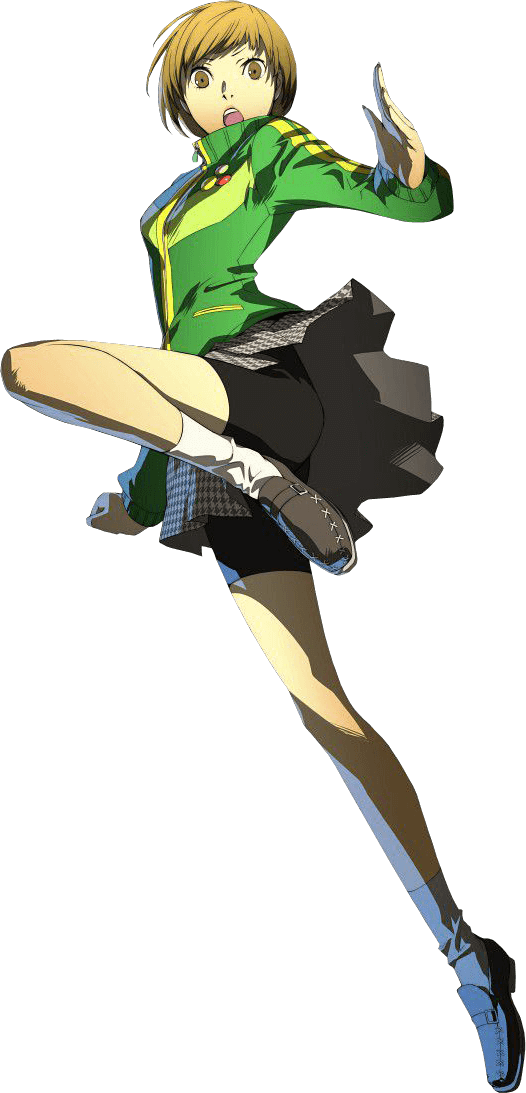
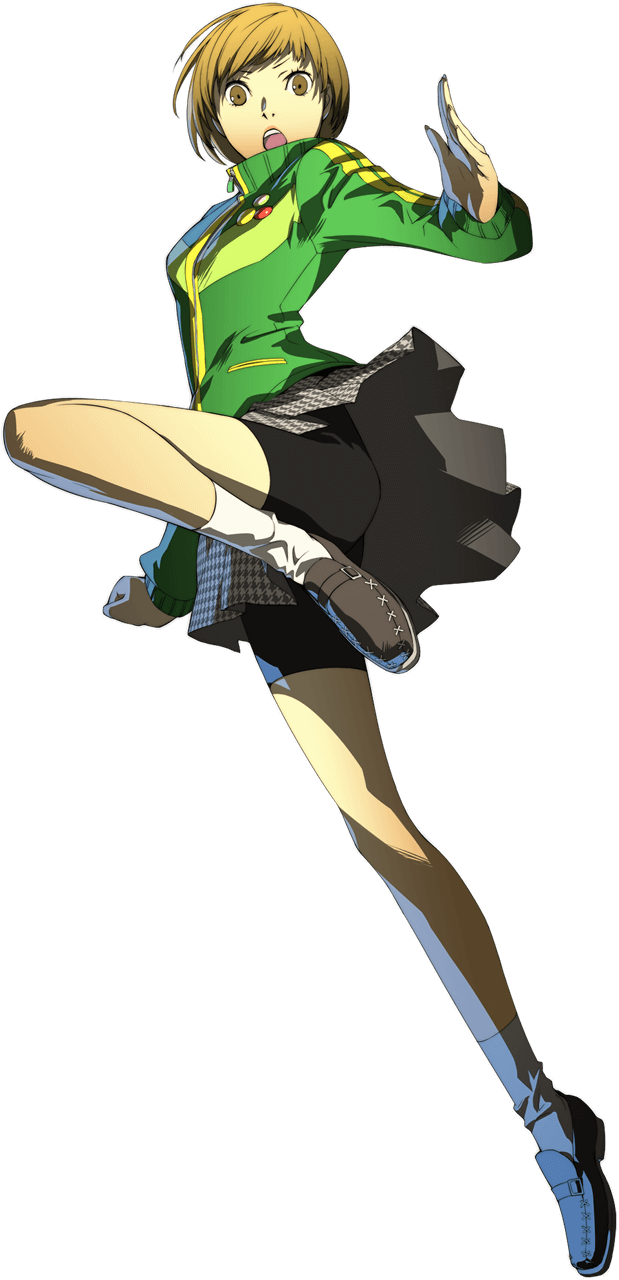
add persona 4 and 5 renders, p1 backgrounds
Added characters renders for Persona 4 and 5. Also adds in some
backgrounds for Persona 1.

diff --git a/resources/images-list.min.js b/resources/images-list.min.js
@@ -1,1 +1,1 @@
-PS_Cover.Images.host="resources/images/",PS_Cover.Images.list={batman:{thumb:"batman-logo.png",images:["batman-00.png","batman-01.png","batman-02.png","batman-03.png","batman-04.png","batman-05.png","batman-06.png","batman-08.png","batman-09.png","batman-11.png","batman-12.png","catwoman-00.png","catwoman-01.png","catwoman-02.png","catwoman-03.png","harley_quinn-00.png","harley_quinn-01.png","harley_quinn-02.png","joker-00.png","joker-01.png","joker-02.png","joker-03.png","batmanw-00.jpg","batmanw-01.jpg","batmanw-02.jpg","batmanw-03.jpg","batmanw-04.jpg","batmanw-05.jpg","batmanw-06.jpg","batmanw-07.jpg","batmanw-08.jpg","batmanw-09.jpg","batmanw-10.jpg","batmanw-11.jpg","batmanw-12.jpg","batmanw-13.jpg","batmanw-14.jpg","batmanw-15.jpg","batmanw-16.jpg","batmanw-17.jpg","batmanw-18.jpg","batmanw-19.jpg","batmanw-20.jpg","batmanw-21.jpg","batmanw-22.jpg","batmanw-23.jpg","batmanw-24.jpg","batmanw-25.jpg","batmanw-26.jpg","batmanw-27.jpg","batmanw-29.jpg","batmanw-30.jpg"]},battlefield:{thumb:"bf-logo.png",images:["bf-00.png","bf-01.png","bf-02.png","bf-03.png","bf-05.png","bf-06.png","bf-07.png","bf-08.png","bf-09.png","bf-10.png","bf-11.png","bf-12.png","bfw-00.jpg","bfw-01.jpg","bfw-02.jpg","bfw-03.jpg","bfw-04.png","bfw-05.png","bfw-06.jpg","bfw-07.jpg","bfw-08.jpg","bfw-09.jpg","bfw-10.jpg","bfw-11.jpg","bfw-12.jpg","bfw-13.jpg","bfw-14.jpg","bfw-15.jpg","bfw-16.jpg","bfw-17.jpg","bfw-18.jpg"]},bloodborne:{thumb:"bb_logo.png",images:["bb-00.png","bb-01.png","bb-02.png","bb-03.png","bb-04.png","bb-05.png","bb-06.png","bb-07.png","bb-08.png","bb-09.png","bb-10.png","bb-11.png","bb-12.png","bb-13.png","bb-14.png","bb-15.png","bb-16.png","bb-17.png","bb-18.png","bb-19.png","bbw-00.jpg","bbw-01.jpg","bbw-02.jpg","bbw-03.jpg","bbw-04.jpg","bbw-05.jpg","bbw-06.jpg","bbw-07.jpg","bbw-08.jpg","bbw-09.jpg","bbw-10.jpg","bbw-12.jpg","bbw-13.jpg","bbw-14.jpg","bbw-15.jpg","bbw-16.jpg","bbw-17.jpg","bbw-18.jpg","bbw-19.jpg","bbw-20.jpg","bbw-22.jpg","bbw-23.jpg","bbw-24.jpg","bbw-25.jpg","bbw-26.jpg","bbw-28.jpg","bbw-29.jpg","bbw-31.jpg"]},"final-fantasy":{thumb:"ff-logo.png",images:["ff1-00.png","ff1-01.png","firrion-00.png","firrion-01.png","firrion-02.png","cloudofdarkness-00.png","kain-00.png","cecil-00.png","cecil-01.png","cecil-02.png","rosa-00.png","rydia-00.png","rydia-01.png","ff4-00.png","bartz-00.png","bartz-01.png","gilgamesh-ff5-00.png","gilgamesh-ff5-01.png","exdeath-00.png","terra-00.png","terra-01.png","terra-02.png","terra-03.png","terra-04.png","terra-05.png","kefka-00.png","kefka-01.png","kefka-02.png","ff6-00.png","aerith-00.png","aerith-01.png","aerith-02.png","aerith-03.png","barret-00.png","barret-01.png","caitsith-00.png","caitsith-01.png","cid-00.png","cid-01.png","cloud-00.png","cloud-01.png","cloud-02.png","cloud-03.png","cloud-04.png","cloud-05.png","cloud-06.png","genesis-00.png","red-00.png","sephiroth-00.png","sephiroth-01.png","sephiroth-02.png","sephiroth-03.png","sephiroth-04.png","tifa-00.png","tifa-01.png","tifa-02.png","tifa-03.png","tifa-04.png","tifa-05.png","vincent-00.png","vincent-01.png","vincent-02.png","vincent-03.png","vincent-04.png","yuffie-00.png","yuffie-01.png","yuffie-02.png","yuffie-03.png","zack-00.png","zack-01.png","zack-02.png","zack-03.png","zack-04.png","zack-05.png","ff7-00.png","ff7-01.png","ff7-02.png","seifer-00.png","squall-00.png","squall-01.png","squall-02.png","squall-03.png","squall-04.png","squall-05.png","squall-06.png","squall-07.png","squall-08.png","ff8-00.png","ff8-01.png","ff8-02.png","garnet-00.png","kuja-00.png","kuja-01.png","kuja-02.png","vivi-00.png","zidane-00.png","zidane-01.png","zidane-02.png","zidane-03.png","zidane-04.png","zidane-05.png","zidane-06.png","ff9-00.png","auron-00.png","auron-01.png","auron-02.png","auron-03.png","jecht-00.png","jecht-01.png","kimahri-00.png","lulu-00.png","lulu-01.png","lulu-02.png","lulu-03.png","paine-00.png","paine-01.png","paine-02.png","paine-03.png","paine-04.png","rikku-00.png","rikku-01.png","rikku-02.png","rikku-03.png","rikku-04.png","seymour-00.png","tidus-00.png","tidus-01.png","tidus-02.png","tidus-03.png","tidus-04.png","tidus-05.png","wakka-00.png","wakka-01.png","yuna-00.png","yuna-01.png","yuna-02.png","yuna-03.png","yuna-04.png","yuna-05.png","yuna-06.png","yuna-07.png","yuna-08.png","ff11-00.png","ff11-01.png","ff11-02.png","ff11-03.png","ff11-04.png","ff11-05.png","ff11-06.png","ashe-00.png","ashe-01.png","ashe-02.png","balthier-00.png","basch-00.png","fran-00.png","fran-01.png","fran-02.png","gabranth-00.png","larsa-00.png","penelo-00.png","penelo-01.png","rasler-00.png","vaan-00.png","vaan-01.png","vaan-02.png","vayne-00.png","ff12-00.png","ff12-01.png","ff12-02.png","caius-00.png","fang-00.png","fang-01.png","hope-00.png","hope-01.png","hope-02.png","hope-03.png","hope-04.png","hope-05.png","jihl-00.png","lightning-00.png","lightning-01.png","lightning-02.png","lightning-03.png","lightning-04.png","lightning-05.png","lightning-06.png","lightning-07.png","lightning-08.png","lightning-09.png","lightning-10.png","lightning-11.png","lightning-12.png","lightning-13.png","lightning-14.png","lightning-15.png","lightning-16.png","lightning-17.png","lumina-00.png","noel-00.png","noel-01.png","noel-02.png","sazh-00.png","serah-00.png","serah-01.png","serah-02.png","serah-03.png","serah-04.png","serah-05.png","serah-06.png","serah-07.png","serah-08.png","serah-09.png","snow-00.png","snow-01.png","snow-02.png","snow-03.png","snow-04.png","vanille-00.png","vanille-01.png","vanille-02.png","vanille-03.png","vanille-04.png","ff13-00.png","ff13-01.png","ff14-00.png","ff14-01.png","ff14-02.png","ff14-03.png","ff14-04.png","ff14-05.png","ff14-06.png","ff14-07.png","ff14-08.png","ff14-09.png","ardyn-00.png","ardyn-01.png","noctis-01.png","noctis-02.png","noctis-03.png","noctis-04.png","noctis-05.png","noctis-06.png","ff15-00.png","ff15-01.png","ace-00.png","ace-01.png","caetuna-00.png","cater-00.png","cater-01.png","cid-t0-00.png","cinque-00.png","deuce-00.png","eight-00.png","gilgamesh-t0-00.png","jack-00.png","king-00.png","machina-00.png","nimbus-00.png","nine-00.png","queen-00.png","rem-00.png","seven-00.png","seven-01.png","shiva-00.png","sice-00.png","sice-01.png","trey-00.png","trey-01.png","type0-00.png","ff3w-00.jpg","ff4w-00.jpg","ff5w-00.jpg","ff5w-01.png","ff5w-02.jpg","ff6w-00.jpg","ff6w-01.jpg","ff6w-02.jpg","ff6w-03.jpg","ff7w-00.jpg","ff7w-01.jpg","ff7w-02.jpg","ff7w-03.jpg","ff7w-04.jpg","ff7w-05.jpg","ff7w-06.jpg","ff8w-00.jpg","ff8w-01.jpg","ff8w-02.jpg","ff8w-03.jpg","ff8w-04.jpg","ff8w-05.jpg","ff8w-06.jpg","ff8w-07.jpg","ff8w-08.jpg","ff8w-09.jpg","ff8w-10.jpg","ff8w-11.jpg","ff9w-00.jpg","ff9w-01.jpg","ff9w-02.jpg","ff9w-03.jpg","ff9w-04.jpg","ff9w-05.jpg","ff9w-06.jpg","ff9w-07.jpg","ff9w-08.jpg","ff9w-09.jpg","ff10w-00.jpg","ff10w-01.jpg","ff10w-02.jpg","ff10w-03.jpg","ff10w-04.jpg","ff10w-05.jpg","ff10w-06.jpg","ff10w-07.jpg","ff10w-08.jpg","ff10w-09.jpg","ff10w-10.jpg","ff10w-11.jpg","ff10w-12.jpg","ff10w-13.jpg","ff10w-14.jpg","ff10w-15.jpg","ff11w-00.jpg","ff11w-01.jpg","ff11w-02.jpg","ff12w-00.jpg","ff12w-01.jpg","ff12w-02.jpg","ff12w-03.jpg","ff12w-04.jpg","ff12w-05.jpg","ff12w-06.jpg","ff12w-07.jpg","ff12w-08.jpg","ff12w-09.jpg","ff12w-10.jpg","ff12w-11.jpg","ff13w-00.jpg","ff13w-01.jpg","ff13w-02.jpg","ff13w-03.jpg","ff13w-04.jpg","ff13w-05.jpg","ff13w-06.jpg","ff13w-07.jpg","ff13w-08.jpg","ff13w-09.jpg","ff13w-10.jpg","ff13w-11.jpg","ff13w-12.jpg","ff14w-00.jpg","ff14w-01.jpg","ff14w-02.jpg","ff14w-03.jpg","ff14w-04.jpg","ff14w-05.jpg","ff14w-06.jpg","ff14w-07.jpg","ff14w-08.jpg","ff14w-09.jpg","ff14w-10.jpg","ff14w-11.jpg","ff14w-12.jpg","ff15w-00.jpg","ff15w-01.jpg","ff15w-02.jpg","ff15w-03.jpg","ff15w-04.jpg","ff15w-05.jpg","ff15w-06.jpg","ff15w-07.jpg","ff15w-08.jpg","ff15w-09.jpg","ff15w-10.jpg","ff15w-11.jpg","ff15w-12.jpg","type0w-00.jpg","type0w-01.jpg","type0w-02.jpg","type0w-03.jpg","type0w-04.jpg","type0w-05.jpg","type0w-06.jpg","type0w-07.png","type0w-08.jpg","type0w-09.jpg","type0w-10.jpg","type0w-11.jpg","type0w-12.jpg","type0w-13.jpg","ffdw-00.jpg","ffdw-01.jpg","ffdw-02.jpg","ffdw-03.jpg","fftw-00.jpg","fftw-01.jpg"]},"god-of-war":{thumb:"gow-logo.png",images:["kratos-00.png","kratos-01.png","kratos-02.png","kratos-03.png","kratos-04.png","kratos-05.png","kratos-06.png","kratos-07.png","kratos-08.png","kratos-09.png","kratos-10.png","kratos-11.png","gow-00.jpg","gow-01.jpg","gow-02.jpg","gow-03.jpg","gow-04.jpg","gow-05.jpg","gow-06.jpg","gow-07.jpg","gow-08.jpg","gow-09.jpg","gow-10.jpg","gow-11.jpg","gow-12.jpg","gow-13.jpg"]},"gran-turismo":{thumb:"gt-logo.png",images:["gt-00.png","gt-01.png","gt-02.png","gt-03.png","gt-04.png","gt-05.png","gt-06.png","gt-07.png","gt-08.png","gtw-00.jpg","gtw-01.jpg","gtw-02.jpg","gtw-03.jpg","gtw-04.jpg","gtw-05.jpg","gtw-06.jpg","gtw-07.jpg","gtw-08.jpg","gtw-09.jpg","gtw-10.jpg","gtw-11.jpg","gtw-12.jpg","gtw-13.jpg","gtw-14.jpg","gtw-15.jpg","gtw-16.jpg","gtw-17.jpg","gtw-18.jpg","gtw-19.jpg"]},"gravity-rush":{thumb:"gr-logo.png",images:["dusty-00.png","kat-00.png","kat-01.png","kat-02.png","kat-03.png","kat-04.png","kat-05.png","kat-06.png","kat-07.png","kat-08.png","kat-09.png","kat-10.png","kat-11.png","kat-12.png","raven-00.png","raven-01.png","raven-03.png","syd-00.png","syd-01.png","yunica-00.png","yunica-01.png","gr-00.png","grw-00.jpg","grw-01.jpg","grw-02.jpg","grw-03.jpg","grw-06.jpg","grw-07.jpg","grw-09.jpg","grw-11.jpg","grw-12.jpg","grw-14.jpg","grw-15.jpg","grw-16.jpg","grw-17.jpg","grw-18.jpg","grw-19.jpg","grw-20.jpg"]},infamous:{thumb:"if-logo.png",images:["cole-00.png","cole-01.png","cole-02.png","cole-03.png","cole-04.png","delsin-00.png","delsin-01.png","delsin-02.png","fetch-00.png","fetch-01.png","nix-00.png","reaper-00.png","if-00.jpg","if-01.jpg","if-02.jpg","if-03.jpg","if-04.jpg","if-05.jpg","if-06.jpg","if-07.jpg","if-08.jpg","if-09.jpg","if2-00.jpg","if3-00.jpg","if3-01.jpg","if3-02.jpg","if3-03.jpg","if3-04.jpg"]},killzone:{thumb:"kz-logo.png",images:["kz-00.png","kz-01.png","kz-02.png","kz-03.png","kz-04.png","kz-05.png","kz-06.png","kz-07.png","kz-08.png","kz-09.png","kz-10.png","kz-11.png","kz-12.png","kz-13.png","kz-14.png","kz-15.png","kz-16.png","kz-17.png","kz-18.png","kz-19.png","kz-20.png","kzw-00.jpg","kzw-01.jpg","kzw-02.jpg","kzw-04.jpg","kzw-05.jpg","kzw-06.jpg","kzw-07.jpg","kzw-08.jpg","kzw-09.jpg","kzw-10.jpg","kzw-11.jpg","kzw-12.jpg","kzw-13.jpg","kzw-14.jpg","kzw-15.jpg","kzw-16.jpg","kzw-17.jpg","kzw-18.jpg","kzw-19.jpg","kzw-20.jpg"]},"little-big-planet":{thumb:"lbp-logo.png",images:["lbp-00.png","lbp-01.png","lbp-02.png","lbp-03.png","lbp-04.png","lbp-05.png","lbp-06.png","lbp-07.png","lbp-08.png","lbp-09.png","lbp-10.png","lbp-11.png","lbp-12.png","lbp-13.png","lbp-14.png","lbp-15.png","lbp-16.png","lbp-17.png","lbp-18.png","lbpw-00.jpg","lbpw-01.jpg","lbpw-02.jpg","lbpw-03.jpg","lbpw-04.jpg","lbpw-05.jpg","lbpw-06.jpg","lbpw-07.jpg","lbpw-08.jpg","lbpw-09.jpg","lbpw-10.jpg"]},persona:{thumb:"persona-logo.png",images:["eriko-00.png","eriko-01.png","hidehiko-00.png","hidehiko-01.png","maki-00.png","maki-01.png","masao-00.png","masao-01.png","nanjo-00.png","nanjo-01.png","nanjo-02.png","naoya-00.png","naoya-01.png","reiji-00.png","reiji-01.png","trish-00.png","yuka-00.png","yukino-00.png","yukino-01.png","yukino-02.png","eikichi-00.png","eikichi-01.png","eikichi-02.png","eikichi-03.png","joker-00.png","jun-00.png","jun-01.png","jun-02.png","jun-03.png","lisa-00.png","lisa-01.png","lisa-02.png","lisa-03.png","lisa-04.png","maya-00.png","maya-01.png","maya-02.png","maya-03.png","maya-04.png","tatsuya-00.png","tatsuya-01.png","tatsuya-02.png","tatsuya-03.png","tatsuya-04.png","tatsuya-05.png","apollo-00.png","maia-00.png","aigis-00.png","aigis-01.png","aigis-02.png","aigis-03.png","aigis-04.png","aigis-05.png","aigis-06.png","aigis-07.png","aigis-08.png","aigis-09.png","aigis-10.png","aigis-11.png","aigis-12.png","aigis-13.png","aigis-14.png","akihiko-00.png","akihiko-01.png","akihiko-02.png","akihiko-03.png","akihiko-04.png","akihiko-05.png","akihiko-06.png","akihiko-07.png","chidori-00.png","chidori-01.png","chidori-02.png","elizabeth-00.png","elizabeth-01.png","elizabeth-02.png","elizabeth-03.png","elizabeth-04.png","elizabeth-05.png","femc-00.png","femc-02.png","femc-03.png","femc-04.png","fuuka-00.png","fuuka-01.png","fuuka-02.png","junpei-00.png","junpei-01.png","junpei-02.png","junpei-03.png","ken-00.png","ken-01.png","ken-02.png","ken-03.png","koromaru-00.png","koromaru-01.png","koromaru-02.png","metis-00.png","minato-00.png","minato-01.png","minato-02.png","minato-03.png","minato-04.png","minato-05.png","minato-06.png","minato-07.png","minato-08.png","minato-09.png","mitsuru-00.png","mitsuru-01.png","mitsuru-02.png","mitsuru-03.png","mitsuru-04.png","mitsuru-05.png","mitsuru-06.png","ryoji-00.png","ryoji-01.png","shinjiro-00.png","shinjiro-01.png","theo-00.png","theo-01.png","yukari-00.png","yukari-01.png","yukari-02.png","yukari-04.png","orpheus-00.png","thantos-00.png","misc-02.png","misc-03.png","misc-04.png","misc-05.png","chie-00.png","izanagi-00.png","izanagi-01.png","izanagi-02.png","yu-00.png","yu-01.png","yu-02.png","yu-03.png","misc-00.png","misc-01.png","p2w-00.jpg","p2w-01.jpg","p2w-02.jpg","p2w-03.jpg","p2w-04.jpg","p2w-05.jpg","p2w-06.jpg","p2w-07.jpg","p2w-08.jpg","p2w-09.jpg","p3w-00.jpg","p3w-01.jpg","p3w-02.jpg","p3w-03.jpg","p3w-04.jpg","p3w-05.png","p3w-06.jpg","p3w-07.jpg","p3w-08.png","p3w-09.jpg","p3w-10.jpg","p3w-11.jpg","p3w-12.jpg","p3w-13.png","p3w-14.jpg","p3w-15.jpg","p3w-16.jpg","p3w-17.jpg","p3w-18.jpg","p4w-00.jpg","p4w-01.jpg","p4w-03.jpg","p4w-04.jpg","p4w-05.jpg","p4w-06.jpg","p4w-07.jpg","p4w-08.jpg","p4w-09.jpg","p4w-10.jpg","p4w-11.jpg","p4w-12.jpg","p4w-13.jpg","p4w-15.jpg","p4w-16.jpg","p5w-00.jpg","p5w-01.png","p5w-02.jpg","p5w-03.jpg","p5w-04.jpg","p5w-05.jpg","p5w-06.jpg","p5w-07.jpg","p5w-08.jpg","p5w-09.jpg","p5w-10.jpg","p5w-11.jpg","p5w-12.jpg","p5w-13.jpg","p5w-14.jpg","p5w-15.jpg","p5w-16.jpg","p5w-17.jpg","p5w-18.jpg","p5w-19.jpg","p5w-20.jpg","p5w-21.jpg","p5w-22.jpg","p5w-23.jpg","p5w-24.jpg","p5w-25.jpg","p5w-26.jpg","p5w-27.jpg","p5w-28.jpg"]},"ratchet-and-clank":{thumb:"rac-logo.png",images:["ace-00.png","al-00.png","alister-01.png","clank-00.png","clank-01.png","clank-02.png","clank-03.png","courtney-00.png","courtney-01.png","merc-00.png","nefarious-00.png","nefarious-01.png","nefarious-02.png","qwark-00.png","qwark-01.png","qwark-02.png","qwark-03.png","qwark-04.png","ratchet-00.png","ratchet-02.png","ratchet-03.png","ratchet-04.png","ratchet-05.png","ratchet-06.png","ratchet-07.png","ratchet-08.png","skid-00.png","racw-00.jpg","racw-01.jpg","racw-02.jpg","racw-03.jpg","racw-04.jpg","racw-05.jpg","racw-06.jpg","racw-07.jpg","racw-08.jpg","racw-09.jpg","racw-10.jpg","racw-11.jpg","racw-12.jpg","racw-13.jpg","racw-14.jpg","racw-15.jpg","racw-16.jpg","racw-17.jpg","racw-18.jpg","racw-19.jpg"]},"street-fighter":{thumb:"sf-logo.png",images:["chun_li-00.png","chun_li-01.png","chun_li-02.png","chun_li-03.png","cody-00.png","juri-00.png","kazuya-00.png","ken-00.png","ken-01.png","ken-02.png","ken-03.png","ken-04.png","q-00.png","ryu-00.png","ryu-01.png","ryu-02.png","ryu-03.png","ryu-04.png","ryu-05.png","yang-00.png","yun-00.png","sfw-00.jpg","sfw-01.jpg","sfw-02.jpg","sfw-03.jpg","sfw-04.jpg","sfw-05.jpg","sfw-06.jpg","sfw-07.jpg","sfw-08.jpg","sfw-09.jpg","sfw-10.jpg","sfw-11.jpg","sfw-12.jpg","sfw-13.jpg","sfw-14.jpg"]},uncharted:{thumb:"uc-logo.png",images:["chloe-00.png","drake-00.png","drake-01.png","drake-02.png","eddy-00.png","elena-00.png","elena-01.png","flynn-00.png","sully-00.png","uc-00.jpg","uc2-00.jpg","uc2-01.jpg","uc2-02.jpg","uc3-00.jpg","uc3-01.jpg","uc3-02.jpg","uc4-00.jpg","uc4-01.jpg","uc4-02.jpg","uc4-03.jpg","uc4-04.jpg"]}};
+PS_Cover.Images.host="resources/images/",PS_Cover.Images.list={batman:{thumb:"batman-logo.png",images:["batman-00.png","batman-01.png","batman-02.png","batman-03.png","batman-04.png","batman-05.png","batman-06.png","batman-08.png","batman-09.png","batman-11.png","batman-12.png","catwoman-00.png","catwoman-01.png","catwoman-02.png","catwoman-03.png","harley_quinn-00.png","harley_quinn-01.png","harley_quinn-02.png","joker-00.png","joker-01.png","joker-02.png","joker-03.png","batmanw-00.jpg","batmanw-01.jpg","batmanw-02.jpg","batmanw-03.jpg","batmanw-04.jpg","batmanw-05.jpg","batmanw-06.jpg","batmanw-07.jpg","batmanw-08.jpg","batmanw-09.jpg","batmanw-10.jpg","batmanw-11.jpg","batmanw-12.jpg","batmanw-13.jpg","batmanw-14.jpg","batmanw-15.jpg","batmanw-16.jpg","batmanw-17.jpg","batmanw-18.jpg","batmanw-19.jpg","batmanw-20.jpg","batmanw-21.jpg","batmanw-22.jpg","batmanw-23.jpg","batmanw-24.jpg","batmanw-25.jpg","batmanw-26.jpg","batmanw-27.jpg","batmanw-29.jpg","batmanw-30.jpg"]},battlefield:{thumb:"bf-logo.png",images:["bf-00.png","bf-01.png","bf-02.png","bf-03.png","bf-05.png","bf-06.png","bf-07.png","bf-08.png","bf-09.png","bf-10.png","bf-11.png","bf-12.png","bfw-00.jpg","bfw-01.jpg","bfw-02.jpg","bfw-03.jpg","bfw-04.png","bfw-05.png","bfw-06.jpg","bfw-07.jpg","bfw-08.jpg","bfw-09.jpg","bfw-10.jpg","bfw-11.jpg","bfw-12.jpg","bfw-13.jpg","bfw-14.jpg","bfw-15.jpg","bfw-16.jpg","bfw-17.jpg","bfw-18.jpg"]},bloodborne:{thumb:"bb_logo.png",images:["bb-00.png","bb-01.png","bb-02.png","bb-03.png","bb-04.png","bb-05.png","bb-06.png","bb-07.png","bb-08.png","bb-09.png","bb-10.png","bb-11.png","bb-12.png","bb-13.png","bb-14.png","bb-15.png","bb-16.png","bb-17.png","bb-18.png","bb-19.png","bbw-00.jpg","bbw-01.jpg","bbw-02.jpg","bbw-03.jpg","bbw-04.jpg","bbw-05.jpg","bbw-06.jpg","bbw-07.jpg","bbw-08.jpg","bbw-09.jpg","bbw-10.jpg","bbw-12.jpg","bbw-13.jpg","bbw-14.jpg","bbw-15.jpg","bbw-16.jpg","bbw-17.jpg","bbw-18.jpg","bbw-19.jpg","bbw-20.jpg","bbw-22.jpg","bbw-23.jpg","bbw-24.jpg","bbw-25.jpg","bbw-26.jpg","bbw-28.jpg","bbw-29.jpg","bbw-31.jpg"]},"final-fantasy":{thumb:"ff-logo.png",images:["ff1-00.png","ff1-01.png","firrion-00.png","firrion-01.png","firrion-02.png","cloudofdarkness-00.png","kain-00.png","cecil-00.png","cecil-01.png","cecil-02.png","rosa-00.png","rydia-00.png","rydia-01.png","ff4-00.png","bartz-00.png","bartz-01.png","gilgamesh-ff5-00.png","gilgamesh-ff5-01.png","exdeath-00.png","terra-00.png","terra-01.png","terra-02.png","terra-03.png","terra-04.png","terra-05.png","kefka-00.png","kefka-01.png","kefka-02.png","ff6-00.png","aerith-00.png","aerith-01.png","aerith-02.png","aerith-03.png","barret-00.png","barret-01.png","caitsith-00.png","caitsith-01.png","cid-00.png","cid-01.png","cloud-00.png","cloud-01.png","cloud-02.png","cloud-03.png","cloud-04.png","cloud-05.png","cloud-06.png","genesis-00.png","red-00.png","sephiroth-00.png","sephiroth-01.png","sephiroth-02.png","sephiroth-03.png","sephiroth-04.png","tifa-00.png","tifa-01.png","tifa-02.png","tifa-03.png","tifa-04.png","tifa-05.png","vincent-00.png","vincent-01.png","vincent-02.png","vincent-03.png","vincent-04.png","yuffie-00.png","yuffie-01.png","yuffie-02.png","yuffie-03.png","zack-00.png","zack-01.png","zack-02.png","zack-03.png","zack-04.png","zack-05.png","ff7-00.png","ff7-01.png","ff7-02.png","seifer-00.png","squall-00.png","squall-01.png","squall-02.png","squall-03.png","squall-04.png","squall-05.png","squall-06.png","squall-07.png","squall-08.png","ff8-00.png","ff8-01.png","ff8-02.png","garnet-00.png","kuja-00.png","kuja-01.png","kuja-02.png","vivi-00.png","zidane-00.png","zidane-01.png","zidane-02.png","zidane-03.png","zidane-04.png","zidane-05.png","zidane-06.png","ff9-00.png","auron-00.png","auron-01.png","auron-02.png","auron-03.png","jecht-00.png","jecht-01.png","kimahri-00.png","lulu-00.png","lulu-01.png","lulu-02.png","lulu-03.png","paine-00.png","paine-01.png","paine-02.png","paine-03.png","paine-04.png","rikku-00.png","rikku-01.png","rikku-02.png","rikku-03.png","rikku-04.png","seymour-00.png","tidus-00.png","tidus-01.png","tidus-02.png","tidus-03.png","tidus-04.png","tidus-05.png","wakka-00.png","wakka-01.png","yuna-00.png","yuna-01.png","yuna-02.png","yuna-03.png","yuna-04.png","yuna-05.png","yuna-06.png","yuna-07.png","yuna-08.png","ff11-00.png","ff11-01.png","ff11-02.png","ff11-03.png","ff11-04.png","ff11-05.png","ff11-06.png","ashe-00.png","ashe-01.png","ashe-02.png","balthier-00.png","basch-00.png","fran-00.png","fran-01.png","fran-02.png","gabranth-00.png","larsa-00.png","penelo-00.png","penelo-01.png","rasler-00.png","vaan-00.png","vaan-01.png","vaan-02.png","vayne-00.png","ff12-00.png","ff12-01.png","ff12-02.png","caius-00.png","fang-00.png","fang-01.png","hope-00.png","hope-01.png","hope-02.png","hope-03.png","hope-04.png","hope-05.png","jihl-00.png","lightning-00.png","lightning-01.png","lightning-02.png","lightning-03.png","lightning-04.png","lightning-05.png","lightning-06.png","lightning-07.png","lightning-08.png","lightning-09.png","lightning-10.png","lightning-11.png","lightning-12.png","lightning-13.png","lightning-14.png","lightning-15.png","lightning-16.png","lightning-17.png","lumina-00.png","noel-00.png","noel-01.png","noel-02.png","sazh-00.png","serah-00.png","serah-01.png","serah-02.png","serah-03.png","serah-04.png","serah-05.png","serah-06.png","serah-07.png","serah-08.png","serah-09.png","snow-00.png","snow-01.png","snow-02.png","snow-03.png","snow-04.png","vanille-00.png","vanille-01.png","vanille-02.png","vanille-03.png","vanille-04.png","ff13-00.png","ff13-01.png","ff14-00.png","ff14-01.png","ff14-02.png","ff14-03.png","ff14-04.png","ff14-05.png","ff14-06.png","ff14-07.png","ff14-08.png","ff14-09.png","ardyn-00.png","ardyn-01.png","noctis-01.png","noctis-02.png","noctis-03.png","noctis-04.png","noctis-05.png","noctis-06.png","ff15-00.png","ff15-01.png","ace-00.png","ace-01.png","caetuna-00.png","cater-00.png","cater-01.png","cid-t0-00.png","cinque-00.png","deuce-00.png","eight-00.png","gilgamesh-t0-00.png","jack-00.png","king-00.png","machina-00.png","nimbus-00.png","nine-00.png","queen-00.png","rem-00.png","seven-00.png","seven-01.png","shiva-00.png","sice-00.png","sice-01.png","trey-00.png","trey-01.png","type0-00.png","ff3w-00.jpg","ff4w-00.jpg","ff5w-00.jpg","ff5w-01.png","ff5w-02.jpg","ff6w-00.jpg","ff6w-01.jpg","ff6w-02.jpg","ff6w-03.jpg","ff7w-00.jpg","ff7w-01.jpg","ff7w-02.jpg","ff7w-03.jpg","ff7w-04.jpg","ff7w-05.jpg","ff7w-06.jpg","ff8w-00.jpg","ff8w-01.jpg","ff8w-02.jpg","ff8w-03.jpg","ff8w-04.jpg","ff8w-05.jpg","ff8w-06.jpg","ff8w-07.jpg","ff8w-08.jpg","ff8w-09.jpg","ff8w-10.jpg","ff8w-11.jpg","ff9w-00.jpg","ff9w-01.jpg","ff9w-02.jpg","ff9w-03.jpg","ff9w-04.jpg","ff9w-05.jpg","ff9w-06.jpg","ff9w-07.jpg","ff9w-08.jpg","ff9w-09.jpg","ff10w-00.jpg","ff10w-01.jpg","ff10w-02.jpg","ff10w-03.jpg","ff10w-04.jpg","ff10w-05.jpg","ff10w-06.jpg","ff10w-07.jpg","ff10w-08.jpg","ff10w-09.jpg","ff10w-10.jpg","ff10w-11.jpg","ff10w-12.jpg","ff10w-13.jpg","ff10w-14.jpg","ff10w-15.jpg","ff11w-00.jpg","ff11w-01.jpg","ff11w-02.jpg","ff12w-00.jpg","ff12w-01.jpg","ff12w-02.jpg","ff12w-03.jpg","ff12w-04.jpg","ff12w-05.jpg","ff12w-06.jpg","ff12w-07.jpg","ff12w-08.jpg","ff12w-09.jpg","ff12w-10.jpg","ff12w-11.jpg","ff13w-00.jpg","ff13w-01.jpg","ff13w-02.jpg","ff13w-03.jpg","ff13w-04.jpg","ff13w-05.jpg","ff13w-06.jpg","ff13w-07.jpg","ff13w-08.jpg","ff13w-09.jpg","ff13w-10.jpg","ff13w-11.jpg","ff13w-12.jpg","ff14w-00.jpg","ff14w-01.jpg","ff14w-02.jpg","ff14w-03.jpg","ff14w-04.jpg","ff14w-05.jpg","ff14w-06.jpg","ff14w-07.jpg","ff14w-08.jpg","ff14w-09.jpg","ff14w-10.jpg","ff14w-11.jpg","ff14w-12.jpg","ff15w-00.jpg","ff15w-01.jpg","ff15w-02.jpg","ff15w-03.jpg","ff15w-04.jpg","ff15w-05.jpg","ff15w-06.jpg","ff15w-07.jpg","ff15w-08.jpg","ff15w-09.jpg","ff15w-10.jpg","ff15w-11.jpg","ff15w-12.jpg","type0w-00.jpg","type0w-01.jpg","type0w-02.jpg","type0w-03.jpg","type0w-04.jpg","type0w-05.jpg","type0w-06.jpg","type0w-07.png","type0w-08.jpg","type0w-09.jpg","type0w-10.jpg","type0w-11.jpg","type0w-12.jpg","type0w-13.jpg","ffdw-00.jpg","ffdw-01.jpg","ffdw-02.jpg","ffdw-03.jpg","fftw-00.jpg","fftw-01.jpg"]},"god-of-war":{thumb:"gow-logo.png",images:["kratos-00.png","kratos-01.png","kratos-02.png","kratos-03.png","kratos-04.png","kratos-05.png","kratos-06.png","kratos-07.png","kratos-08.png","kratos-09.png","kratos-10.png","kratos-11.png","gow-00.jpg","gow-01.jpg","gow-02.jpg","gow-03.jpg","gow-04.jpg","gow-05.jpg","gow-06.jpg","gow-07.jpg","gow-08.jpg","gow-09.jpg","gow-10.jpg","gow-11.jpg","gow-12.jpg","gow-13.jpg"]},"gran-turismo":{thumb:"gt-logo.png",images:["gt-00.png","gt-01.png","gt-02.png","gt-03.png","gt-04.png","gt-05.png","gt-06.png","gt-07.png","gt-08.png","gtw-00.jpg","gtw-01.jpg","gtw-02.jpg","gtw-03.jpg","gtw-04.jpg","gtw-05.jpg","gtw-06.jpg","gtw-07.jpg","gtw-08.jpg","gtw-09.jpg","gtw-10.jpg","gtw-11.jpg","gtw-12.jpg","gtw-13.jpg","gtw-14.jpg","gtw-15.jpg","gtw-16.jpg","gtw-17.jpg","gtw-18.jpg","gtw-19.jpg"]},"gravity-rush":{thumb:"gr-logo.png",images:["dusty-00.png","kat-00.png","kat-01.png","kat-02.png","kat-03.png","kat-04.png","kat-05.png","kat-06.png","kat-07.png","kat-08.png","kat-09.png","kat-10.png","kat-11.png","kat-12.png","raven-00.png","raven-01.png","raven-03.png","syd-00.png","syd-01.png","yunica-00.png","yunica-01.png","gr-00.png","grw-00.jpg","grw-01.jpg","grw-02.jpg","grw-03.jpg","grw-06.jpg","grw-07.jpg","grw-09.jpg","grw-11.jpg","grw-12.jpg","grw-14.jpg","grw-15.jpg","grw-16.jpg","grw-17.jpg","grw-18.jpg","grw-19.jpg","grw-20.jpg"]},infamous:{thumb:"if-logo.png",images:["cole-00.png","cole-01.png","cole-02.png","cole-03.png","cole-04.png","delsin-00.png","delsin-01.png","delsin-02.png","fetch-00.png","fetch-01.png","nix-00.png","reaper-00.png","if-00.jpg","if-01.jpg","if-02.jpg","if-03.jpg","if-04.jpg","if-05.jpg","if-06.jpg","if-07.jpg","if-08.jpg","if-09.jpg","if2-00.jpg","if3-00.jpg","if3-01.jpg","if3-02.jpg","if3-03.jpg","if3-04.jpg"]},killzone:{thumb:"kz-logo.png",images:["kz-00.png","kz-01.png","kz-02.png","kz-03.png","kz-04.png","kz-05.png","kz-06.png","kz-07.png","kz-08.png","kz-09.png","kz-10.png","kz-11.png","kz-12.png","kz-13.png","kz-14.png","kz-15.png","kz-16.png","kz-17.png","kz-18.png","kz-19.png","kz-20.png","kzw-00.jpg","kzw-01.jpg","kzw-02.jpg","kzw-04.jpg","kzw-05.jpg","kzw-06.jpg","kzw-07.jpg","kzw-08.jpg","kzw-09.jpg","kzw-10.jpg","kzw-11.jpg","kzw-12.jpg","kzw-13.jpg","kzw-14.jpg","kzw-15.jpg","kzw-16.jpg","kzw-17.jpg","kzw-18.jpg","kzw-19.jpg","kzw-20.jpg"]},"little-big-planet":{thumb:"lbp-logo.png",images:["lbp-00.png","lbp-01.png","lbp-02.png","lbp-03.png","lbp-04.png","lbp-05.png","lbp-06.png","lbp-07.png","lbp-08.png","lbp-09.png","lbp-10.png","lbp-11.png","lbp-12.png","lbp-13.png","lbp-14.png","lbp-15.png","lbp-16.png","lbp-17.png","lbp-18.png","lbpw-00.jpg","lbpw-01.jpg","lbpw-02.jpg","lbpw-03.jpg","lbpw-04.jpg","lbpw-05.jpg","lbpw-06.jpg","lbpw-07.jpg","lbpw-08.jpg","lbpw-09.jpg","lbpw-10.jpg"]},persona:{thumb:"persona-logo.png",images:["eriko-00.png","eriko-01.png","hidehiko-00.png","hidehiko-01.png","maki-00.png","maki-01.png","masao-00.png","masao-01.png","nanjo-00.png","nanjo-01.png","nanjo-02.png","naoya-00.png","naoya-01.png","reiji-00.png","reiji-01.png","trish-00.png","yuka-00.png","yukino-00.png","yukino-01.png","yukino-02.png","eikichi-00.png","eikichi-01.png","eikichi-02.png","eikichi-03.png","joker-00.png","jun-00.png","jun-01.png","jun-02.png","jun-03.png","lisa-00.png","lisa-01.png","lisa-02.png","lisa-03.png","lisa-04.png","maya-00.png","maya-01.png","maya-02.png","maya-03.png","maya-04.png","tatsuya-00.png","tatsuya-01.png","tatsuya-02.png","tatsuya-03.png","tatsuya-04.png","tatsuya-05.png","apollo-00.png","maia-00.png","aigis-00.png","aigis-01.png","aigis-02.png","aigis-03.png","aigis-04.png","aigis-05.png","aigis-06.png","aigis-07.png","aigis-08.png","aigis-09.png","aigis-10.png","aigis-11.png","aigis-12.png","aigis-13.png","aigis-14.png","akihiko-00.png","akihiko-01.png","akihiko-02.png","akihiko-03.png","akihiko-04.png","akihiko-05.png","akihiko-06.png","akihiko-07.png","chidori-00.png","chidori-01.png","chidori-02.png","elizabeth-00.png","elizabeth-01.png","elizabeth-02.png","elizabeth-03.png","elizabeth-04.png","elizabeth-05.png","femc-00.png","femc-02.png","femc-03.png","femc-04.png","fuuka-00.png","fuuka-01.png","fuuka-02.png","junpei-00.png","junpei-01.png","junpei-02.png","junpei-03.png","ken-00.png","ken-01.png","ken-02.png","ken-03.png","koromaru-00.png","koromaru-01.png","koromaru-02.png","metis-00.png","minato-00.png","minato-01.png","minato-02.png","minato-03.png","minato-04.png","minato-05.png","minato-06.png","minato-07.png","minato-08.png","minato-09.png","mitsuru-00.png","mitsuru-01.png","mitsuru-02.png","mitsuru-03.png","mitsuru-04.png","mitsuru-05.png","mitsuru-06.png","ryoji-00.png","ryoji-01.png","shinjiro-00.png","shinjiro-01.png","theo-00.png","theo-01.png","yukari-00.png","yukari-01.png","yukari-02.png","yukari-04.png","orpheus-00.png","thantos-00.png","misc-00.png","misc-01.png","misc-02.png","misc-03.png","misc-04.png","misc-05.png","chie-00.png","chie-01.png","chie-02.png","chie-03.png","chie-04.png","chie-05.png","kanji-00.png","kanji-01.png","kanji-02.png","kanji-03.png","kanji-04.png","margaret-00.png","margaret-01.png","margaret-02.png","margaret-03.png","naoto-00.png","naoto-01.png","naoto-02.png","naoto-03.png","naoto-04.png","naoto-05.png","rise-00.png","rise-01.png","rise-02.png","rise-03.png","rise-04.png","rise-05.png","rise-06.png","rise-07.png","teddie-00.png","teddie-01.png","teddie-02.png","teddie-03.png","teddie-04.png","teddie-05.png","teddie-06.png","teddie-07.png","yosuke-00.png","yosuke-01.png","yosuke-02.png","yosuke-03.png","yosuke-04.png","yosuke-05.png","yu-00.png","yu-01.png","yu-02.png","yu-03.png","yu-04.png","yu-05.png","yu-06.png","yu-07.png","yukiko-00.png","yukiko-01.png","yukiko-02.png","yukiko-03.png","yukiko-04.png","yukiko-05.png","izanagi-00.png","izanagi-01.png","izanagi-02.png","p4-misc-00.png","p4-misc-01.png","akira-00.png","akira-01.png","akira-02.png","akira-03.png","akira-04.png","akira-05.png","ann-00.png","ann-01.png","ann-02.png","ann-03.png","ann-04.png","ann-05.png","futaba-00.png","futaba-01.png","futaba-02.png","futaba-03.png","goro-00.png","goro-01.png","goro-02.png","goro-03.png","haru-00.png","haru-01.png","haru-02.png","haru-03.png","makoto-00.png","makoto-01.png","makoto-02.png","makoto-03.png","morgana-00.png","morgana-01.png","morgana-02.png","morgana-03.png","ryuji-00.png","ryuji-01.png","ryuji-02.png","ryuji-03.png","twins-00.png","twins-01.png","twins-02.png","twins-03.png","lavenza-00.png","yusuke-00.png","yusuke-01.png","yusuke-02.png","yusuke-03.png","igor-00.png","igor-01.png","igor-02.png","igor-03.png","p1w-00.jpg","p1w-01.jpg","p1w-02.jpg","p1w-03.jpg","p1w-04.jpg","p1w-05.jpg","p1w-06.jpg","p1w-07.jpg","p2w-00.jpg","p2w-01.jpg","p2w-02.jpg","p2w-03.jpg","p2w-04.jpg","p2w-05.jpg","p2w-06.jpg","p2w-07.jpg","p2w-08.jpg","p2w-09.jpg","p3w-00.jpg","p3w-01.jpg","p3w-02.jpg","p3w-03.jpg","p3w-04.jpg","p3w-05.png","p3w-06.jpg","p3w-07.jpg","p3w-08.png","p3w-09.jpg","p3w-10.jpg","p3w-11.jpg","p3w-12.jpg","p3w-13.png","p3w-14.jpg","p3w-15.jpg","p3w-16.jpg","p3w-17.jpg","p3w-18.jpg","p4w-00.jpg","p4w-01.jpg","p4w-03.jpg","p4w-04.jpg","p4w-05.jpg","p4w-06.jpg","p4w-07.jpg","p4w-08.jpg","p4w-09.jpg","p4w-10.jpg","p4w-11.jpg","p4w-12.jpg","p4w-13.jpg","p4w-15.jpg","p4w-16.jpg","p5w-00.jpg","p5w-01.png","p5w-02.jpg","p5w-03.jpg","p5w-04.jpg","p5w-05.jpg","p5w-06.jpg","p5w-07.jpg","p5w-08.jpg","p5w-09.jpg","p5w-10.jpg","p5w-11.jpg","p5w-12.jpg","p5w-13.jpg","p5w-14.jpg","p5w-15.jpg","p5w-16.jpg","p5w-17.jpg","p5w-18.jpg","p5w-19.jpg","p5w-20.jpg","p5w-21.jpg","p5w-22.jpg","p5w-23.jpg","p5w-24.jpg","p5w-25.jpg","p5w-26.jpg","p5w-27.jpg","p5w-28.jpg"]},"ratchet-and-clank":{thumb:"rac-logo.png",images:["ace-00.png","al-00.png","alister-01.png","clank-00.png","clank-01.png","clank-02.png","clank-03.png","courtney-00.png","courtney-01.png","merc-00.png","nefarious-00.png","nefarious-01.png","nefarious-02.png","qwark-00.png","qwark-01.png","qwark-02.png","qwark-03.png","qwark-04.png","ratchet-00.png","ratchet-02.png","ratchet-03.png","ratchet-04.png","ratchet-05.png","ratchet-06.png","ratchet-07.png","ratchet-08.png","skid-00.png","racw-00.jpg","racw-01.jpg","racw-02.jpg","racw-03.jpg","racw-04.jpg","racw-05.jpg","racw-06.jpg","racw-07.jpg","racw-08.jpg","racw-09.jpg","racw-10.jpg","racw-11.jpg","racw-12.jpg","racw-13.jpg","racw-14.jpg","racw-15.jpg","racw-16.jpg","racw-17.jpg","racw-18.jpg","racw-19.jpg"]},"street-fighter":{thumb:"sf-logo.png",images:["chun_li-00.png","chun_li-01.png","chun_li-02.png","chun_li-03.png","cody-00.png","juri-00.png","kazuya-00.png","ken-00.png","ken-01.png","ken-02.png","ken-03.png","ken-04.png","q-00.png","ryu-00.png","ryu-01.png","ryu-02.png","ryu-03.png","ryu-04.png","ryu-05.png","yang-00.png","yun-00.png","sfw-00.jpg","sfw-01.jpg","sfw-02.jpg","sfw-03.jpg","sfw-04.jpg","sfw-05.jpg","sfw-06.jpg","sfw-07.jpg","sfw-08.jpg","sfw-09.jpg","sfw-10.jpg","sfw-11.jpg","sfw-12.jpg","sfw-13.jpg","sfw-14.jpg"]},uncharted:{thumb:"uc-logo.png",images:["chloe-00.png","drake-00.png","drake-01.png","drake-02.png","eddy-00.png","elena-00.png","elena-01.png","flynn-00.png","sully-00.png","uc-00.jpg","uc2-00.jpg","uc2-01.jpg","uc2-02.jpg","uc3-00.jpg","uc3-01.jpg","uc3-02.jpg","uc4-00.jpg","uc4-01.jpg","uc4-02.jpg","uc4-03.jpg","uc4-04.jpg"]}};

diff --git a/resources/images-list.js b/resources/images-list.js
@@ -1120,6 +1120,8 @@ PS_Cover.Images.list = {
       'orpheus-00.png',
       'thantos-00.png',
       // Misc
+      'misc-00.png',
+      'misc-01.png',
       'misc-02.png',
       'misc-03.png',
       'misc-04.png',
@@ -1127,22 +1129,151 @@ PS_Cover.Images.list = {
       // PERSONA 4
       // Chie
       'chie-00.png',
-      // Izanagi
-      'izanagi-00.png',
-      'izanagi-01.png',
-      'izanagi-02.png',
+      'chie-01.png',
+      'chie-02.png',
+      'chie-03.png',
+      'chie-04.png',
+      'chie-05.png',
+      // Kanji
+      'kanji-00.png',
+      'kanji-01.png',
+      'kanji-02.png',
+      'kanji-03.png',
+      'kanji-04.png',
+      // Margaret
+      'margaret-00.png',
+      'margaret-01.png',
+      'margaret-02.png',
+      'margaret-03.png',
+      // Naoto
+      'naoto-00.png',
+      'naoto-01.png',
+      'naoto-02.png',
+      'naoto-03.png',
+      'naoto-04.png',
+      'naoto-05.png',
+      // Rise
+      'rise-00.png',
+      'rise-01.png',
+      'rise-02.png',
+      'rise-03.png',
+      'rise-04.png',
+      'rise-05.png',
+      'rise-06.png',
+      'rise-07.png',
+      // Teddie
+      'teddie-00.png',
+      'teddie-01.png',
+      'teddie-02.png',
+      'teddie-03.png',
+      'teddie-04.png',
+      'teddie-05.png',
+      'teddie-06.png',
+      'teddie-07.png',
+      // Yosuke
+      'yosuke-00.png',
+      'yosuke-01.png',
+      'yosuke-02.png',
+      'yosuke-03.png',
+      'yosuke-04.png',
+      'yosuke-05.png',
       // Yu
       'yu-00.png',
       'yu-01.png',
       'yu-02.png',
       'yu-03.png',
+      'yu-04.png',
+      'yu-05.png',
+      'yu-06.png',
+      'yu-07.png',
+      // Yukiko
+      'yukiko-00.png',
+      'yukiko-01.png',
+      'yukiko-02.png',
+      'yukiko-03.png',
+      'yukiko-04.png',
+      'yukiko-05.png',
+      // Personas
+      'izanagi-00.png',
+      'izanagi-01.png',
+      'izanagi-02.png',
+      // Misc
+      'p4-misc-00.png',
+      'p4-misc-01.png',
       // PERSONA 5
-
-      // MISC
-      'misc-00.png',
-      'misc-01.png',
+      // Akira (MC)
+      'akira-00.png',
+      'akira-01.png',
+      'akira-02.png',
+      'akira-03.png',
+      'akira-04.png',
+      'akira-05.png',
+      // Ann
+      'ann-00.png',
+      'ann-01.png',
+      'ann-02.png',
+      'ann-03.png',
+      'ann-04.png',
+      'ann-05.png',
+      // Futaba
+      'futaba-00.png',
+      'futaba-01.png',
+      'futaba-02.png',
+      'futaba-03.png',
+      // Goro
+      'goro-00.png',
+      'goro-01.png',
+      'goro-02.png',
+      'goro-03.png',
+      // Haru
+      'haru-00.png',
+      'haru-01.png',
+      'haru-02.png',
+      'haru-03.png',
+      // Makoto
+      'makoto-00.png',
+      'makoto-01.png',
+      'makoto-02.png',
+      'makoto-03.png',
+      // Morgana
+      'morgana-00.png',
+      'morgana-01.png',
+      'morgana-02.png',
+      'morgana-03.png',
+      // Ryuji
+      'ryuji-00.png',
+      'ryuji-01.png',
+      'ryuji-02.png',
+      'ryuji-03.png',
+      // Caroline and Justine
+      'twins-00.png',
+      'twins-01.png',
+      'twins-02.png',
+      'twins-03.png',
+      // Lavenza
+      'lavenza-00.png',
+      // Yusuke
+      'yusuke-00.png',
+      'yusuke-01.png',
+      'yusuke-02.png',
+      'yusuke-03.png',
+      // RECURRING
+      // Igor
+      'igor-00.png',
+      'igor-01.png',
+      'igor-02.png',
+      'igor-03.png',
 
       // # BACKGROUNDS
+      // Persona 1
+      'p1w-00.jpg',
+      'p1w-01.jpg',
+      'p1w-02.jpg',
+      'p1w-03.jpg',
+      'p1w-04.jpg',
+      'p1w-05.jpg',
+      'p1w-06.jpg',
+      'p1w-07.jpg',
       // Persona 2
       'p2w-00.jpg',
       'p2w-01.jpg',
